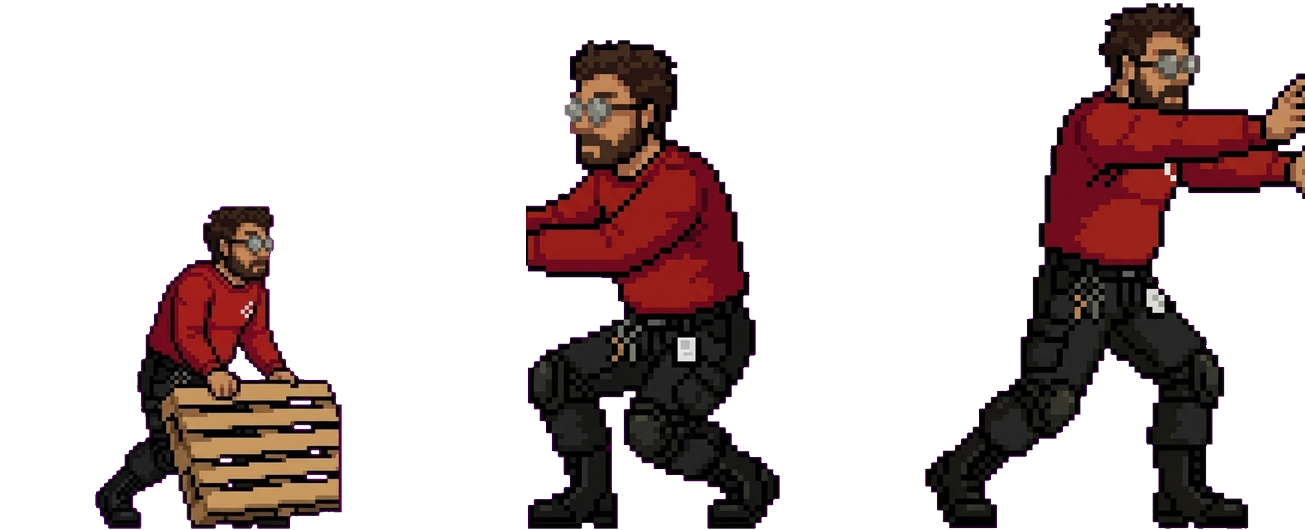
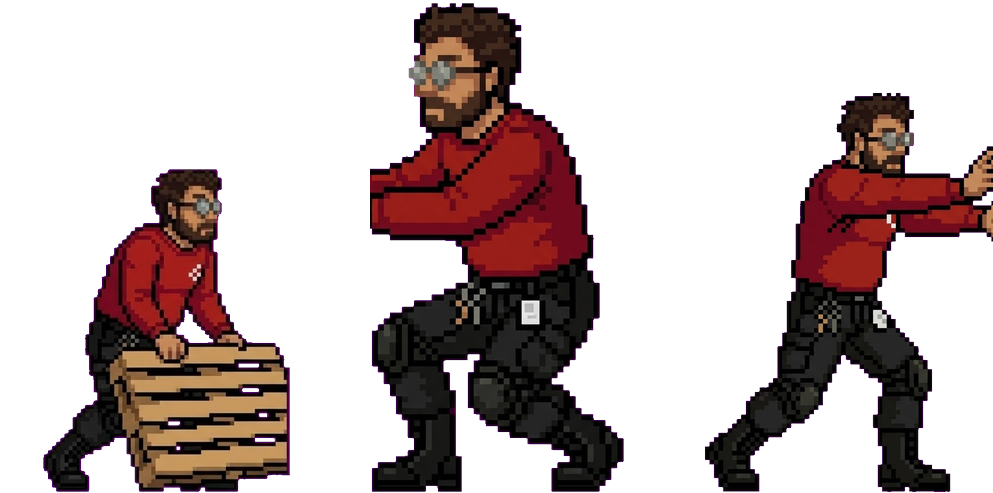
Picco piu lungo in tutte le mosse (p/k/h ac=9, s ac=6); speciale: frame 3 rinormalizzato (non piu gigante); cache v=5

Changed region(s): [[0.3746, 0.0, 0.6556, 1.0], [0.6868, 0.0, 1.0, 1.0], [0.0312, 0.3347, 0.3122, 1.0]]

diff --git a/index.html b/index.html
@@ -97,9 +97,9 @@ Rr(432,200,44,38,'#14141c');Rr(434,202,40,34,'#c8482a');Rr(444,214,20,10,'#fff')
 function R(x,y,w,h,col){c.fillStyle='#07070c';c.fillRect(x-1,y-1,w+2,h+2);c.fillStyle=col;c.fillRect(x,y,w,h)}
 /* sprite BEPPE (da Google Drive): 1 riga per animazione in assets/characters/beppe/, corpo in piedi normalizzato a 400px, piedi sul bordo inferiore, rivolti a destra */
 const SPR={},SPRB=400,SPRN={idle:2,walk:2,punch:3,kick:3,heavy:3,jump:3,block:1,crouch:1,special:3};
-for(const a of Object.keys(SPRN)){const im=new Image();im.onload=()=>{SPR[a]=im};im.src='assets/characters/beppe/beppe-'+a+'.png?v=4'}
-const PAL=new Image();PAL.src='assets/characters/beppe/pallet.png?v=4';
-const BGI=new Image();BGI.src='assets/backgrounds/arena-supermercato.png?v=4';
+for(const a of Object.keys(SPRN)){const im=new Image();im.onload=()=>{SPR[a]=im};im.src='assets/characters/beppe/beppe-'+a+'.png?v=5'}
+const PAL=new Image();PAL.src='assets/characters/beppe/pallet.png?v=5';
+const BGI=new Image();BGI.src='assets/backgrounds/arena-supermercato.png?v=5';
 const SPR_H=0.45*384/2, SPRK=SPR_H/SPRB; /* altezza sprite ~45% del canvas, in coordinate mondo */
 function draw(f,x,y,pose,sc){const L=f.L,s=pose||f.st,t=f.t,e=f.ext||0;sc=(sc||1)*(L.big?1.12:1);
 if(L.n=='BEPPE'&&SPR.idle){let name='idle',fi=0;
@@ -144,7 +144,7 @@ const SF={hit:[180,.1,'square',.3,60],blk:[500,.06,'triangle',.25],whf:[260,.07,
 function sfx(n){const s=SF[n];if(s)tone(s[0],s[1],s[2],s[3]*O.sfx/100,s[4])}
 setInterval(()=>{if(!AC||!pl)return;const q=(mst/12|0)%2?5:0,n=[0,3,7,12,7,3][mst%6]+q;tone(110*2**(n/12),.15,'square',.05*O.mus/100);if(mst%2==0)tone(55*2**(q/12),.2,'triangle',.09*O.mus/100);mst++},170);
 /* ---------- gioco ---------- */
-const MV={p:{su:3,ac:6,re:3,d:5,r:30,st:11,kb:2},k:{su:3,ac:6,re:3,d:7,r:36,st:13,kb:3},h:{su:10,ac:5,re:18,d:13,r:34,st:22,kb:7},s:{su:9,ac:2,re:16}};
+const MV={p:{su:3,ac:9,re:3,d:5,r:30,st:11,kb:2},k:{su:3,ac:9,re:3,d:7,r:36,st:13,kb:3},h:{su:10,ac:9,re:18,d:13,r:34,st:22,kb:7},s:{su:9,ac:6,re:16}};
 let G=null,T=0,mode='arc',tour=0,pickI=0,keys={},TR={},PS=[],PJ=[],last=0,acc=0,demo=[{L:CH[0],x:88,face:1,st:'idle',t:0,ext:0,y:0},{L:CH[7],x:264,face:-1,st:'idle',t:0,ext:0,y:0}],arena=AR[0];
 function mk(L,x,face,ai,lv){return{L,x,y:0,vx:0,vy:0,face,hp:100,tr:100,sp:0,st:'idle',t:0,atk:null,did:0,stun:0,blk:0,cr:0,rep:{m:'',n:0,t:-999},ai,lv,ob:0,hd:{},wins:0,ext:0}}
 function sh(id){document.querySelectorAll('.scr').forEach(e=>e.classList.toggle('on',e.id==id));$('#tc').classList.toggle('on',id==''&&touchOn())}
